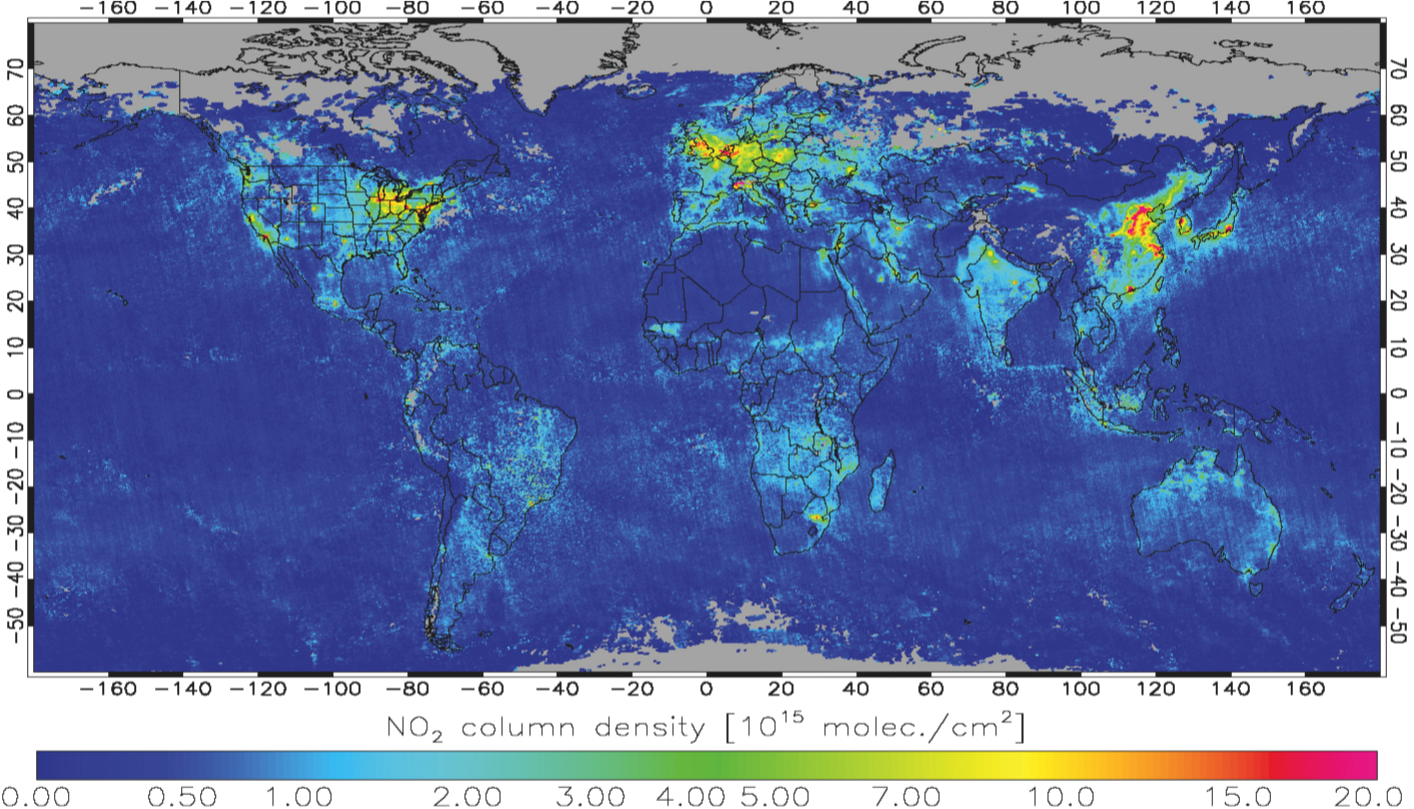
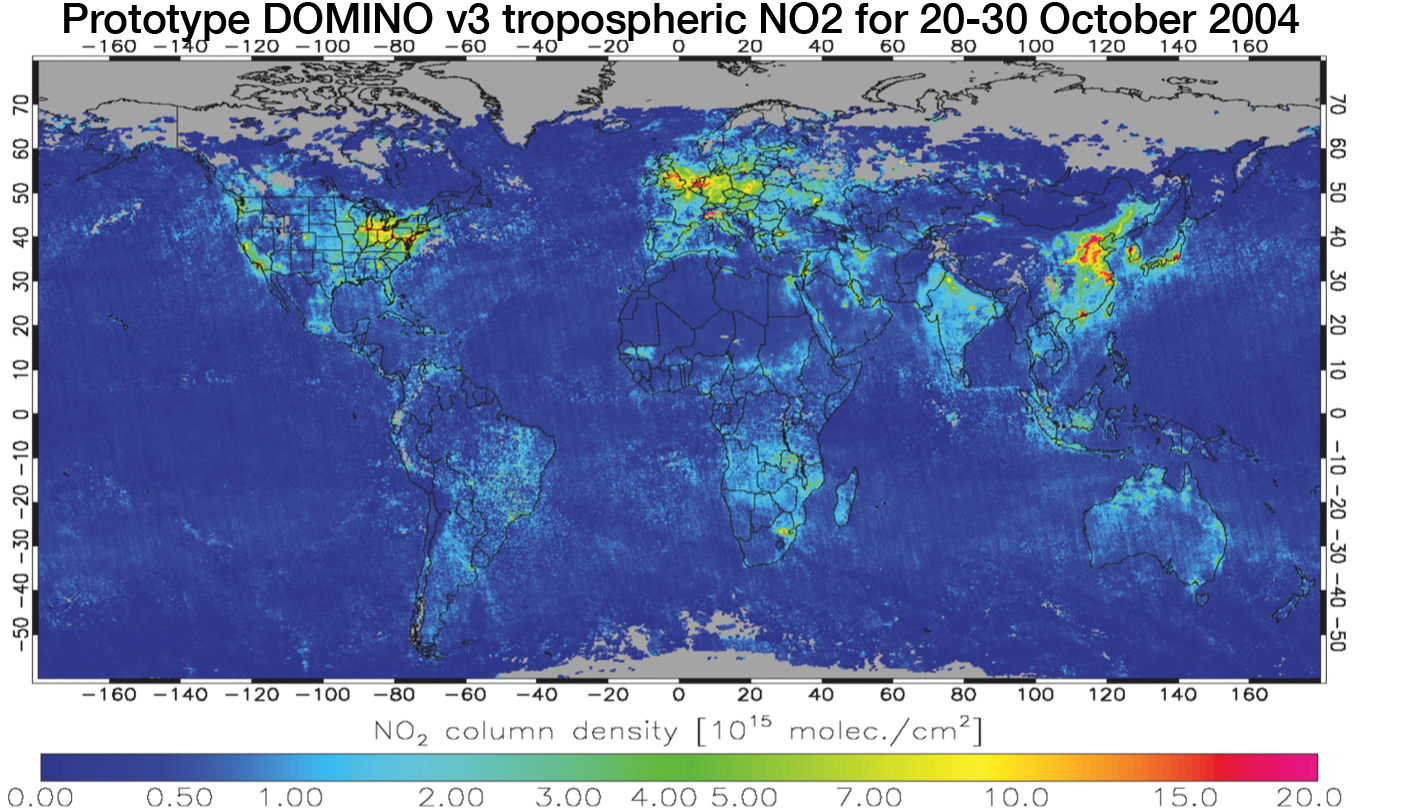
Updates 11/14

diff --git a/science_prev.html b/science_prev.html
@@ -84,7 +84,7 @@
 				<div class="row">
 					<div class="col-md-7">
 						<h2>Examining human activity from space by analyzing OMI and GOME-2 tropospheric NO<sub>2</sub> columns</h2>
-						<p>Most of my previous projects focussed on nitrogen oxides (NO<sub>x</sub>). For my bachelor thesis, I worked with Geert Vinken & Folkert Boersma on identifying ship tracks using NO<sub>2</sub> observed by the OMI satellite instrument. </p>
+						<p style="text-align:justify">Most of my previous projects focused on nitrogen oxides (NO<sub>x</sub>). NO<sub>x</sub> mainly originates from fossil fuel combustion, is a precursor of tropospheric ozone and has an important role in aerosol formation. For my bachelor thesis, I worked with Geert Vinken & Folkert Boersma on examining NO<sub>2</sub> from space. One of the key elements was identifying ship tracks using NO<sub>2</sub> observed by the OMI satellite instrument. Shipping emissions are especially high as ships use low-grade bunker fuel. The figure on the right shows ship tracks around the European continent made visible by using a high-pass filter on OMI NO2 columns.</p>
 					</div>
 					<div class="col-md-5">
 						<h2> </h2>
@@ -105,13 +105,13 @@
 				<div class="row">
 					<div class="col-md-5">
 						<h2> </h2>
-						<p> </p>
+						<p style="text-align:justify"> </p>
 						<img src="images/Soil.jpg" alt="Soil" class="img-responsive">
 						<p><small>Annual soil NO<sub>x</sub> emissions in our updated parameterization</small></p>
 					</div>
 					<div class="col-md-7">
 						<h2>Soil NO<sub>x</sub> emissions in GEOS-Chem</h2>
-						<p>##</p>
+						<p style="text-align:justify">During my M.Sc. I did an internship at Harvard University (Working with Folkert Boersma, Geert Vinken, and Daniel Jacob), working on soil NO<sub>x</sub> emissions. Nitrogen oxides are emitted from soils as a by-product of microbial nitrification and denitrification. Emissions are enhanced by the use of fertilizer. We worked on improving a parameterization of these emissions in GEOS-Chem. GEOS-Chem is a chemical transport model which allows us to model global 3D concentrations of atmospheric gases. The figure on the left shows annual average emissions as implemented in the model. We also carried out an initial evaluation of the emissions using OMI NO<sub>2</sub> observations.</p>
 					</div>
 
 				</div>
@@ -127,13 +127,13 @@
 				<div class="row">
 					<div class="col-md-7">
 						<h2>Vital improvements to the retrieval of tropospheric columns from the Ozone Monitoring Instrument</h2>
-						<p> </p>
+						<p style="text-align:justify">Between summer 2012 and spring 2013 I worked on my M.Sc. thesis at the Royal Dutch Metrological Institute (KNMI) under the supervision of Folkert Boersma. We worked on a new version of the retrieval of tropospheric NO<sub>2</sub> columns from the Ozone Monitoring Instrument: DOMINO v3. Our updates include coupling with a newer, higher resolution chemical transport model (TM5) for a better representation of the atmosphere and vertical; improved representation of surface height and cloud pressure; and updated error characterization. </p>
 					</div>
 					<div class="col-md-5">
 						<h2> </h2>
 						<p> </p>
 						<img src="images/DOMINO.png" alt="JDM" class="img-responsive">
-						<p><small>NO<sub>2</sub> from OMI using our updated retrieval</small></p>
+						<p><small>NO<sub>2</sub> from OMI for 20-30 October 2004 using our prototype retrieval</small></p>
 					</div>
 				</div>
 			</div>

diff --git a/presentations.html b/presentations.html
@@ -82,8 +82,8 @@
 						<p style="text-align:justify">Jacob, D.J., A.J. Turner, <i>J.D. Maasakkers</i>, J. Sheng, K. Sun, X. Liu, K. Chance, I. Aben, J. McKeever, and C. Frankenberg, Satellite observations of atmospheric methane and their value for quantifying methane emissions, Atmos. Chem. Phys. Disc., doi:10.5194/acp-2016-555, 2016. <a href="http://www.atmos-chem-phys-discuss.net/acp-2016-555/acp-2016-555.pdf"><span>(Link)</span></a></p>
 						<p style="text-align:justify">Turner, A.J., D.J. Jacob, J. Benmergui, S.C. Wofsy, <i>J.D. Maasakkers</i>, A. Butz, O. Hasekamp, and S.C. Biraud, A large increase in US methane emissions over the past decade inferred from satellite data and surface observations, Geophys. Res. Lett., doi:10.1029/2016GL067987, 2016. <a href="http://acmg.seas.harvard.edu/publications/2016/Turner_GRL_2016_Methane.pdf"><span>(Link)</span></a></p>
 						<p style="text-align:justify">Turner, A.J., D.J. Jacob, K.J. Wecht, <i>J.D. Maasakkers</i>, E. Lundgren, A.E. Andrews, S.C. Biraud, H. Boesch, K.W. Bowman, N.M. Deutscher, M.K. Dubey, D.W.T. Griffith, F. Hase, A. Kuze, J. Notholt, H. Ohyama, R. Parker, V.H. Payne, R. Sussmann, C. Sweeney, V.A. Velazco, T. Warneke, P.O. Wennberg, and D. Wunch Estimating global and North American methane emissions with high spatial resolution using GOSAT satellite data, Atmos. Chem. Phys., 15, 7049-7069, 2015. <a href="http://acmg.seas.harvard.edu/publications/2015/Turner_2015_Methane.pdf"><span>(Link)</span></a></p>
-						<p style="text-align:justify">Vinken, G.C.M., Boersma, K.F., <i>Maasakkers, J.D.</i>, Adon, M., and Martin, R.V., Worldwide biogenic soil NO<sub>x</sub> emissions inferred from OMI NO<sub>2</sub> observations, Atmos. Chem. Phys., 2014. <a href="http://www.atmos-chem-phys.net/14/10363/2014/acp-14-10363-2014.pdf"><span>(Link)</span></a></p>
-						<p style="text-align:justify">Van Geffen, J.H.G.M., Boersma, K.F., <i>Maasakkers, J.D.</i>, and Veefkind, J.P. (2013), TROPOMI ATBD of the total and tropospheric NO<sub>2</sub> data products, S5P-KNMI-L2-0005-RP (2013)</p>
+						<p style="text-align:justify">Vinken, G.C.M., K.F. Boersma, <i>J.D. Maasakkers</i>, M. Adon, and R.V. Martin, Worldwide biogenic soil NO<sub>x</sub> emissions inferred from OMI NO<sub>2</sub> observations, Atmos. Chem. Phys., 2014. <a href="http://www.atmos-chem-phys.net/14/10363/2014/acp-14-10363-2014.pdf"><span>(Link)</span></a></p>
+						<p style="text-align:justify">Van Geffen, J.H.G.M., K.F. Boersma, <i>J.D. Maasakkers</i>, and J.P. Veefkind (2013), TROPOMI ATBD of the total and tropospheric NO<sub>2</sub> data products, S5P-KNMI-L2-0005-RP (2013)</p>
 					</div>
 				</div>
 			</div>

diff --git a/science_spac.html b/science_spac.html
@@ -84,13 +84,13 @@
 				<div class="row">
 					<div class="col-md-7">
 						<h2>Estimating methane emissions from space</h2>
-						<p>Most of my previous projects focussed on nitrogen oxides (NO<sub>x</sub>). For my bachelor thesis, I worked with Geert Vinken & Folkert Boersma on identifying ship tracks using NO<sub>2</sub> observed by the OMI satellite instrument. </p>
+						<p style="text-align:justify">Using our gridded EPA inventory, we can now use a chemical transport model to simulate atmospheric concentrations of methane. We can then compare those modeled concentrations to observations from the GOSAT satellite instrument. Based on this comparison we can then adjust methane emissions to best match the observations. This comparison is done as a Bayesian inversion using the GEOS-Chem Adjoint model taking into account both natural and anthropogenic global emissions. We will soon be able to provide space-based constraints on the gridded EPA inventory. The globe on the right shows average methane concentrations as retrieved by GOSAT.</p>
 					</div>
 					<div class="col-md-5">
 						<h2> </h2>
 						<p> </p>
 						<img src="images/GOSAT_web.gif" alt="Soil" class="img-responsive">
-						<p>Methane as seen by GOSAT (Based on the University of Leicester methane retrieval)</p>
+						<p>Methane as retrieved from GOSAT (Based on the University of Leicester methane retrieval)</p>
 					</div>
 				</div>
 			</div>
@@ -107,11 +107,11 @@
 						<h2> </h2>
 						<p> </p>
 						<img src="images/SCIA.png" alt="Soil" class="img-responsive">
-						<p><small>Oversampled SCIAMACHY methane concentrations</small></p>
+						<p><small>Oversampled SCIAMACHY (SRON Retrieval) methane concentrations</small></p>
 					</div>
 					<div class="col-md-7">
 						<h2>Methane emissions from hydropower</h2>
-						<p>##</p>
+						<p style="text-align:justify">Together with Elsie Sunderland, we are studying methane emissions from hydropower development. Hydropower capacity is expected to increase by 75% but the created reservoirs may be a large source of methane. Reservoirs emit methane as a result of decaying organic matter. We are creating a process-based model for hydropower methane emissions, which we will inform and validate with satellite methane observations. One of the tools we use to identify large point sources from space are oversampled methane concentrations from the SCIAMACHY satellite instrument as shown on the left.</p>
 					</div>
 
 				</div>

diff --git a/science.html b/science.html
@@ -84,13 +84,13 @@
 				<div class="row">
 					<div class="col-md-8">
 						<h2>Overview</h2>
-						<p style="text-align:justify">I am currently a PhD Candidate at Harvard University working with Professor Daniel J. Jacob. My work focuses on better understanding anthropogenic methane emissions in the United States. Methane is, after CO<sub>2</sub>, the most important anthropogenic greenhouse gas, but emissions are poorly understood. Sources of methane are both natural (wetlands) and anthropogenic (oil and gas production, livestock, rice, and waste). We try to combine bottom-up (multiplying activity rates (heads of cattle) by emission factors (methane emission per head)) and top-down (using atmospheric methane observations with a chemical transport model to infer emissions explaining these observed concentrations) to better estimate emissions in the US.</p>
+						<p style="text-align:justify">I am currently a PhD Candidate at Harvard University working with Professor Daniel J. Jacob. My work focuses on better understanding anthropogenic methane emissions in the United States. Methane is the second most important anthropogenic greenhouse gas after CO<sub>2</sub>, but emissions are poorly understood. Sources of methane are both natural like wetlands and anthropogenic: oil and gas production, livestock, rice cultivation, and landfills. We try to combine bottom-up (multiplying activity rates (heads of cattle) by emission factors (methane emission per head)) and top-down (using atmospheric methane observations with a chemical transport model to infer emissions explaining these observed concentrations) methods to better estimate emissions in the US.</p>
 					</div>
 					<div class="col-md-4">
 						<h2> </h2>
 						<p> </p>
 						<img src="images/Pie.jpg" alt="JDM" class="img-responsive">
-						<p><small>Breakdown of US anthropogenic methane sources in the EPA inventory</small></p>
+						<p style="text-align:justify"><small>Breakdown of US anthropogenic methane sources in the EPA national greenhouse gas inventory</small></p>
 					</div>
 				</div>
 			</div>

diff --git a/science_grid.html b/science_grid.html
@@ -84,7 +84,7 @@
 				<div class="row">
 					<div class="col-md-7">
 						<h2>The Gridded EPA inventory</h2>
-						<p style="text-align:justify">The US Environmental Protection Agency (EPA) produces annual estimates of national anthropogenic methane emissions in the Inventory of US Greenhouse Gas Emissions and Sinks. We created a 0.1° × 0.1° monthly version of the EPA inventory to be used a a priori for inversions of atmospheric data. We used a wide ensemble of data at the state, county, local, and point source level to create maps of all sources included in the inventory. Our gridded inventory allows a more direct comparison of observed methane concentrations to the EPA inventory which paves the way for using these observations to improve the inventory. A full description of the gridded inventory can be found in our ES&T paper. The gridded emissions are available from the EPA website.</p>
+						<p style="text-align:justify">The US Environmental Protection Agency (EPA) produces annual estimates of national anthropogenic methane emissions in the Inventory of US Greenhouse Gas Emissions and Sinks. We created a 0.1° × 0.1° monthly version of the EPA inventory to be used a a priori for inversions of atmospheric data. We used a wide ensemble of data at the state, county, local, and point source level to create maps of all sources included in the inventory. Our gridded inventory allows a more direct comparison of observed methane concentrations to the EPA inventory, which paves the way for using these observations to improve the inventory. A full description of the gridded inventory can be found in our ES&T paper. The gridded emissions are available from the EPA website.</p>
 					</div>
 					<div class="col-md-5">
 						<h2> </h2>
